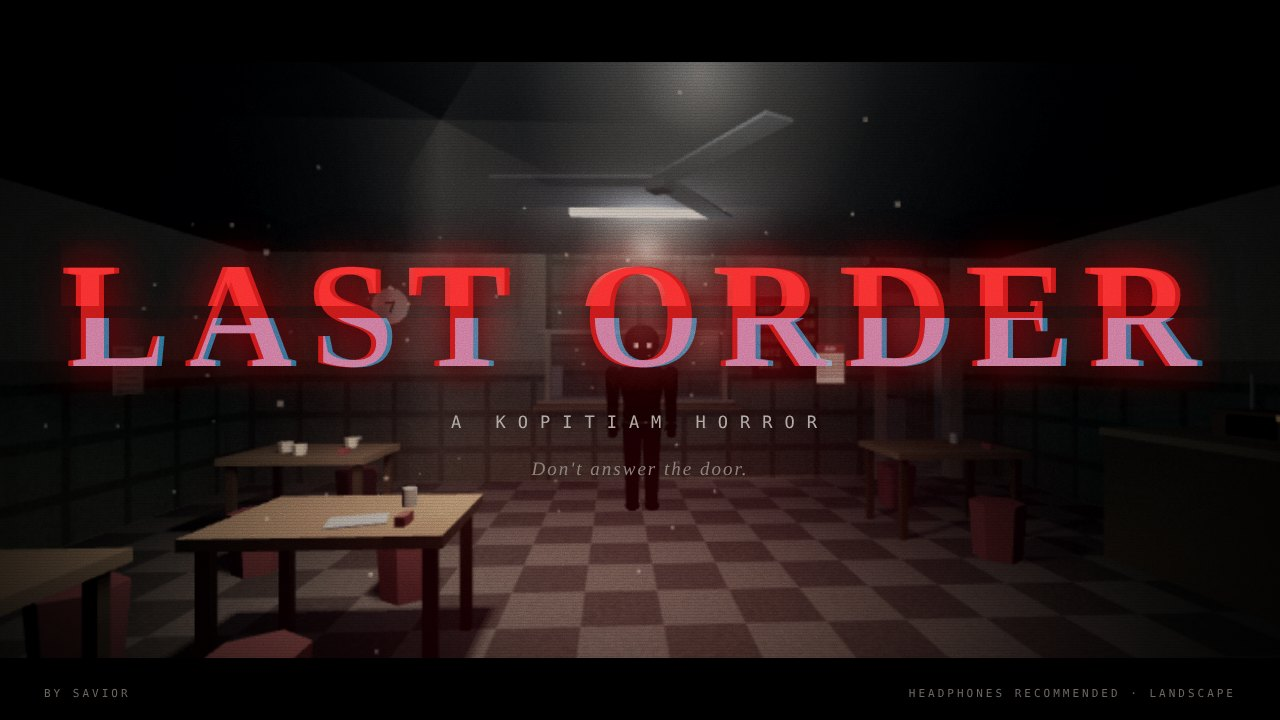
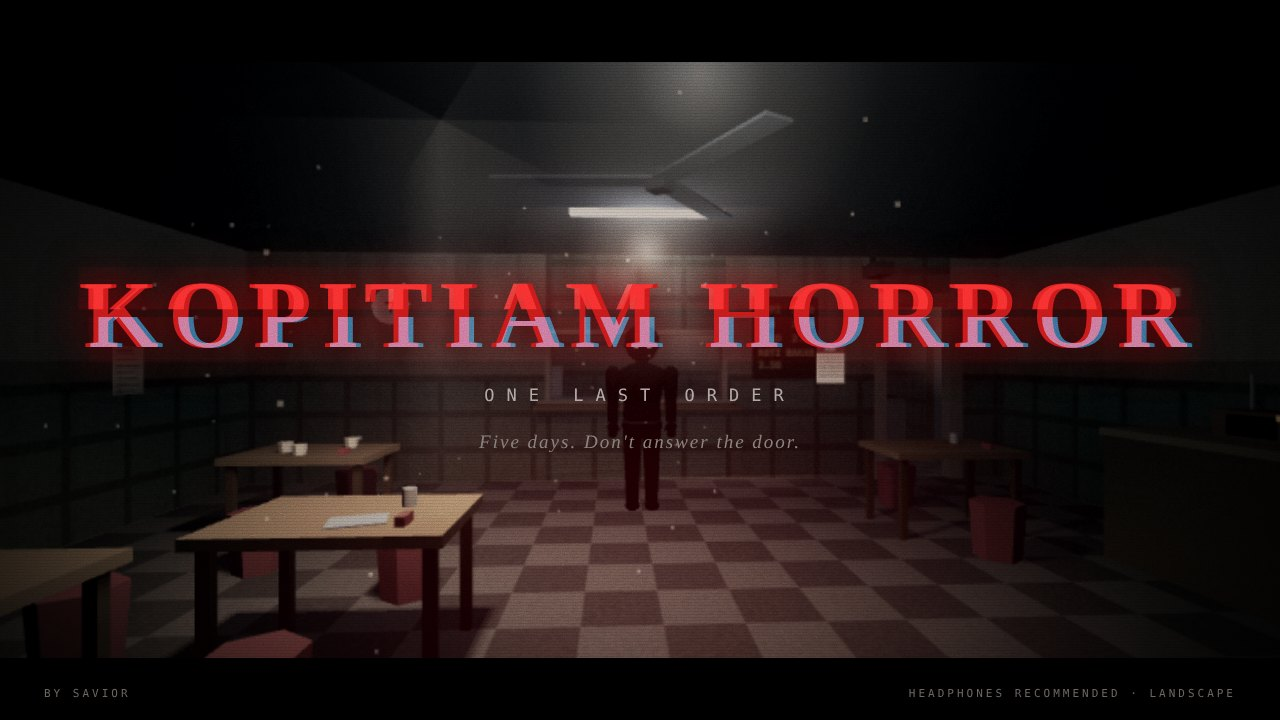
Build 089: rename game to Kopitiam Horror
Claude-Session: https://claude.ai/code/session_01QZSVJshXKkHxSEyYRkjjqW

Changed region(s): [[0.0312, 0.3361, 0.9375, 0.55], [0.375, 0.5806, 0.625, 0.6722]]

diff --git a/game.js b/game.js
@@ -622,7 +622,7 @@ async function cineHome(){if(busy||CINE.on)return;busy=true;await cineIn();const
   if(SCONLY){busy=false;return}
   await midnight();
   if(G.day2){busy=false;state='d2_intro';G.day2();return}
-  $('endh').textContent='END OF DAY 1';$('endp').textContent='Nothing strange happened today. Remember the rule: three knocks.';$('endl').textContent='Last Order · Day 2 is coming';
+  $('endh').textContent='END OF DAY 1';$('endp').textContent='Nothing strange happened today. Remember the rule: three knocks.';$('endl').textContent='Kopitiam Horror · Day 2 is coming';
   $('end').style.display='flex';busy=false;state='end'}
 /* ---- midnight: three knocks, Atuk at your bedroom door ---- */
 const HALLGLOW=new THREE.PointLight(0xffb36b,0,7);HALLGLOW.position.set(13.1,2.1,21.2);scene.add(HALLGLOW);
@@ -661,7 +661,7 @@ async function midnightDoor(){
 async function houseAct(){
   if(/^d[1-5]_go$/.test(state)){const i=AABB.indexOf(DOORBLK);if(i>=0)AABB.splice(i,1);doorSeen[state]=1;return doorOut()}
   busy=true;A.click();
-  if(state==='d1_home'){await say('The door is locked. Atuk is already home.',2200);handAct('knock',2300);for(let i=0;i<3;i++){A.knock();await sleep(650)}await say(sp('ATUK','Three knock. Okay. Masuk.'),2400);$('endh').textContent='END OF DAY 1';$('endp').textContent='Nothing strange happened today. Remember the rule: three knocks.';$('endl').textContent='Last Order · Day 2 is coming'}
+  if(state==='d1_home'){await say('The door is locked. Atuk is already home.',2200);handAct('knock',2300);for(let i=0;i<3;i++){A.knock();await sleep(650)}await say(sp('ATUK','Three knock. Okay. Masuk.'),2400);$('endh').textContent='END OF DAY 1';$('endp').textContent='Nothing strange happened today. Remember the rule: three knocks.';$('endl').textContent='Kopitiam Horror · Day 2 is coming'}
   $('fade').style.transition='opacity 1.6s';$('fade').style.opacity=1;await sleep(1800);$('end').style.display='flex';busy=false;state='end'}
 
 /* ---------- DAY 1 ---------- */
@@ -1300,7 +1300,7 @@ let FXM='auto';try{const v=localStorage.lo_fx;if(v==='full'||v==='off')FXM=v}cat
    const r=new THREE.BufferGeometry();r.setAttribute('position',new THREE.Float32BufferAttribute(p,3));r.setAttribute('normal',new THREE.Float32BufferAttribute(n,3));r.setAttribute('uv',new THREE.Float32BufferAttribute(u,2));r.setIndex(ix);return r};
  const MATS={trim:TRIM,dark:DARK,win:WIN,int:INT};
  for(const k in L){if(!L[k].length)continue;const m=new THREE.Mesh(merge(L[k]),MATS[k]);m.userData.noSoot=true;m.name='thick_'+k;scene.add(m)}}
-const V=new URL(import.meta.url).search,BUILD='202611290552';{const b=document.getElementById('bld');if(b)b.textContent='build '+BUILD}
+const V=new URL(import.meta.url).search,BUILD='202611290610';{const b=document.getElementById('bld');if(b)b.textContent='build '+BUILD}
 import('./day2.js'+V).then(m=>m.default(G)).catch(e=>console.warn('day2 not loaded',e));
 import('./day3.js'+V).then(m=>m.default(G)).catch(e=>console.warn('day3 not loaded',e));
 import('./day4.js'+V).then(m=>m.default(G)).catch(e=>console.warn('day4 not loaded',e));

diff --git a/index.html b/index.html
@@ -3,12 +3,12 @@
 <meta charset="utf-8">
 <meta name="viewport" content="width=device-width,initial-scale=1,maximum-scale=1,user-scalable=no,viewport-fit=cover">
 <meta name="theme-color" content="#000000">
-<meta property="og:title" content="Last Order"><meta property="og:description" content="A kopitiam horror. Five days. Headphones recommended."><meta property="og:image" content="cover.jpg"><meta name="twitter:card" content="summary_large_image">
+<meta property="og:title" content="Kopitiam Horror"><meta property="og:description" content="A kopitiam horror. Five days. Headphones recommended."><meta property="og:image" content="cover.jpg"><meta name="twitter:card" content="summary_large_image">
 <link rel="manifest" href="manifest.webmanifest">
 <link rel="icon" href="icon-192.png">
 <meta name="mobile-web-app-capable" content="yes">
 <meta name="apple-mobile-web-app-capable" content="yes">
-<title>Last Order</title>
+<title>Kopitiam Horror</title>
 <link rel="stylesheet" href="style.css">
 </head><body>
 <canvas id="c"></canvas>
@@ -20,7 +20,7 @@
 <div id="prompt"></div><div id="arrow"></div>
 <div id="fade"></div>
 <div id="dcard"></div><div id="dday"></div>
-<div class="card" id="title"><h1 data-t="LAST ORDER">LAST ORDER</h1><div class="tsub">A KOPITIAM HORROR</div><p id="bld" style="font-size:11px;color:#8f88ad;margin:0 0 6px"></p><p>Five days. Don't answer the door.<br>Headphones recommended.<br>Best in landscape, two thumbs.</p><div style="display:flex;gap:8px;flex-wrap:wrap;justify-content:center"><div id="gq"><span>Graphics</span><button data-r="1">Sharp</button><button data-r=".7">Normal</button><button data-r=".5">Light</button></div><div id="cq"><button data-s="1">Smooth city</button><button data-s="0">Basic</button></div><div id="fq"><button data-f="auto">Effects: Auto</button><button data-f="full">Full</button><button data-f="off">Off</button></div></div><button id="begin">Tap to begin</button></div>
+<div class="card" id="title"><h1 data-t="KOPITIAM HORROR">KOPITIAM HORROR</h1><div class="tsub">ONE LAST ORDER</div><p id="bld" style="font-size:11px;color:#8f88ad;margin:0 0 6px"></p><p>Five days. Don't answer the door.<br>Headphones recommended.<br>Best in landscape, two thumbs.</p><div style="display:flex;gap:8px;flex-wrap:wrap;justify-content:center"><div id="gq"><span>Graphics</span><button data-r="1">Sharp</button><button data-r=".7">Normal</button><button data-r=".5">Light</button></div><div id="cq"><button data-s="1">Smooth city</button><button data-s="0">Basic</button></div><div id="fq"><button data-f="auto">Effects: Auto</button><button data-f="full">Full</button><button data-f="off">Off</button></div></div><button id="begin">Tap to begin</button></div>
 <div class="card" id="end"><h1 id="endh">HOME</h1><p id="endp">The shutter is open. Someone finally got their order.</p><p id="endl" style="font-size:13px;color:#8f88ad">Last Order · first night</p><button id="again">Play again</button></div>
 <script type="module">import("./game.js?v="+Date.now())</script>
 </body></html>

diff --git a/style.css b/style.css
@@ -79,7 +79,7 @@ body.cine #sub{bottom:calc(12% + 12px)!important;z-index:8}
 
 /* ---- horror cards: title screen + day cards ---- */
 #title{background:linear-gradient(rgba(0,0,0,.35),rgba(0,0,0,.55)),url(cards/title.jpg) center/cover no-repeat}
-#title h1{font-family:Georgia,'Times New Roman',serif;font-weight:700;font-size:46px;letter-spacing:12px;color:#c21818;text-shadow:0 0 30px rgba(200,0,10,.55),0 4px 18px #000;position:relative;display:inline-block}
+#title h1{font-family:Georgia,'Times New Roman',serif;font-weight:700;font-size:clamp(24px,8.5vh,46px);letter-spacing:.2em;color:#c21818;text-shadow:0 0 30px rgba(200,0,10,.55),0 4px 18px #000;position:relative;display:inline-block}
 #title h1:before,#title h1:after{position:absolute;left:0;top:0;width:100%;mix-blend-mode:screen;background:none;margin:0;height:auto}
 #title h1:before{content:attr(data-t);color:#ff1a1a;transform:translate(-3px,0);clip-path:inset(0 0 56% 0);opacity:.8}
 #title h1:after{content:attr(data-t);display:block;color:#1ab7ff;transform:translate(3px,0);clip-path:inset(52% 0 0 0);opacity:.5;width:100%;height:auto;margin:0}

diff --git a/sw.js b/sw.js
@@ -1,5 +1,5 @@
 /* Newest files when online, saved copy when offline. */
-const CACHE='lastorder-202611290552';
+const CACHE='lastorder-202611290610';
 const FILES=['./','index.html','style.css','game.js','day2.js','day3.js','day4.js','day5.js','close.js','store.js','sfx.js','watch.js','photo.png','sfx/forgotten_memories.mp3','news0.jpg','cover.jpg','cards/title.jpg','cards/d1.jpg','cards/d2.jpg','cards/d3.jpg','cards/d4.jpg','cards/d5.jpg','news1.jpg','news2.jpg','three.module.min.js','manifest.webmanifest','icon-192.png','icon-512.png'];
 self.addEventListener('install',e=>{e.waitUntil(caches.open(CACHE).then(c=>c.addAll(FILES)).then(()=>self.skipWaiting()))});
 self.addEventListener('activate',e=>e.waitUntil(caches.keys().then(k=>Promise.all(k.filter(n=>n!==CACHE).map(n=>caches.delete(n)))).then(()=>self.clients.claim())));

diff --git a/day3.js b/day3.js
@@ -397,7 +397,7 @@ async function homeNight(){if(G.busy||CINE.on)return;G.busy=true;await cineIn();
   CINE.noclip=false;EYE.y=1.6;await cineOut();
   if(G.day4){G.busy=false;G.state='d4_intro';G.day4();return}
   haze.style.opacity=0;
-  $('endh').textContent='END OF DAY 3';$('endp').textContent='Somebody was crying at the door. Atuk did not answer.';$('endl').textContent='Last Order · Day 4 is coming';
+  $('endh').textContent='END OF DAY 3';$('endp').textContent='Somebody was crying at the door. Atuk did not answer.';$('endl').textContent='Kopitiam Horror · Day 4 is coming';
   $('end').style.display='flex';G.busy=false;G.state='end'}
 
 G.gore=goreDetails;G.goreVis=v=>goreFloor.forEach(o=>o.visible=v);G.details=details;G.FIG=FIG;G.tvSet=tvSet;G.haze=haze;

diff --git a/day2.js b/day2.js
@@ -256,7 +256,7 @@ async function homeNight(){if(G.busy||CINE.on)return;G.busy=true;await cineIn();
   $('fade').style.transition='opacity 2s';$('fade').style.opacity=1;await sleep(2400);
   CINE.noclip=false;EYE.y=1.6;await cineOut();
   if(G.day3){G.busy=false;G.state='d3_intro';G.day3();return}
-  $('endh').textContent='END OF DAY 2';$('endp').textContent='Atuk said not to answer. Someone is still asking.';$('endl').textContent='Last Order · Day 3 is coming';
+  $('endh').textContent='END OF DAY 2';$('endp').textContent='Atuk said not to answer. Someone is still asking.';$('endl').textContent='Kopitiam Horror · Day 3 is coming';
   $('end').style.display='flex';G.busy=false;G.state='end'}
 
 G.crack=crack;G.day2=start}

diff --git a/day4.js b/day4.js
@@ -539,7 +539,7 @@ async function atukEnd(){if(G.busy||CINE.on)return;G.busy=true;await cineIn();G.
   beepQuiet();await sleep(3200);beepSoft=false;
   CINE.noclip=false;EYE.y=1.6;await cineOut();
   if(G.day5){G.busy=false;G.state='d5_intro';G.day5();return}
-  $('endh').textContent='END OF DAY 4';$('endp').textContent='"Still one more. Tomorrow."';$('endl').textContent='Last Order · Day 5 is coming';
+  $('endh').textContent='END OF DAY 4';$('endp').textContent='"Still one more. Tomorrow."';$('endl').textContent='Kopitiam Horror · Day 5 is coming';
   $('end').style.display='flex';G.busy=false;G.state='end'}
 
 G.day4=start}

diff --git a/NOTES.md b/NOTES.md
@@ -260,3 +260,4 @@ A short, story-based 3D horror game set in a Malaysian kopitiam. The player live
 - Build 086 (202611290512): thick walls (visual only, collision untouched): street shopfronts get jamb posts, lintel strip, cornice, plinth and pilasters between shops; upper-floor windows get raised frames and sills; inside doorways (hall, bathroom, kitchen), serving hatch and shop entrance get linings + architraves. One merged mesh per colour, marked noSoot. To undo: git revert this commit.
 - Build 087 (202611290530): thick walls in your house: architraves on the front door, both bedroom doors, and a full lining + architrave on the dining-to-back-hall doorway. Hospital ward already has solid box walls, so unchanged.
 - Build 088 (202611290552): horror cards: title screen now uses the dark shop + figure backdrop with a red glitch title; every day (1-5) opens with a full-screen card (big glitching day number, name: Opening/Again/The Knock/The Fire/Goodbye, hint line, clock). Backgrounds in cards/*.jpg (precached). cover.jpg = landscape game card for sharing (og:image set).
+- Build 089 (202611290610): game renamed KOPITIAM HORROR (Last Order was taken): title screen, tab title, share preview, installed-app name, end-card footers, cover.jpg. Tagline 'One last order'. The final ending card still says LAST ORDER on purpose.
